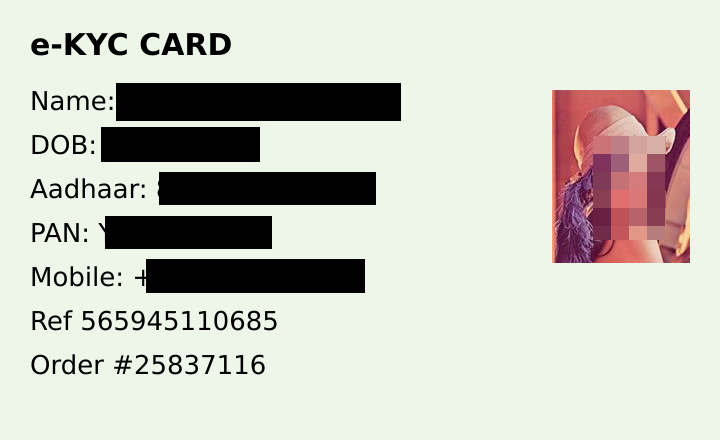
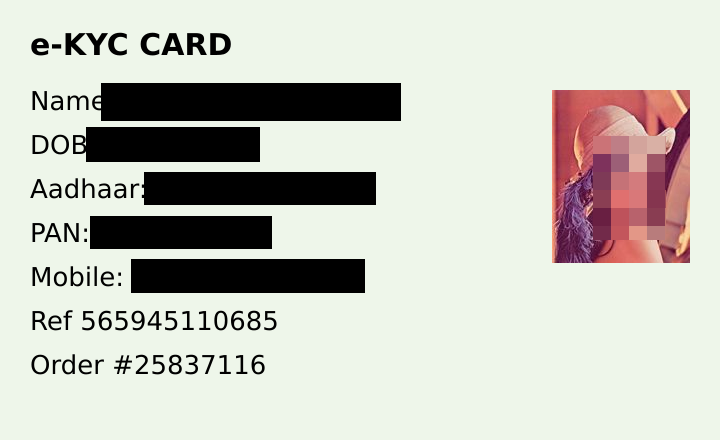
vision: OCR label:value rule masks values by their label (fresh clean seed 0/298 readable, degraded 5/279 all gate-blocked)

diff --git a/packages/vision/src/redact.ts b/packages/vision/src/redact.ts
@@ -1,4 +1,4 @@
-import { detectPatterns, type PiiType, type TextMatch } from '@ouroboros/core';
+import { detectPatterns, domRuleType, type PiiType, type TextMatch } from '@ouroboros/core';
 
 export type AsyncTextDetector = (text: string) => TextMatch[] | Promise<TextMatch[]>;
 import type { Face } from './faces';
@@ -12,6 +12,20 @@ export interface RedactImageOptions {
   /** Fail-closed: OCR lines under this confidence are masked whole. */
   minLineConfidence?: number;
   padding?: number;
+}
+
+const KV = /^\s*([A-Za-z][A-Za-z .\/'()-]{1,30}?)\s*[:：]\s*(\S.*)$/;
+const NAME_LABEL = /\b(name|father|mother|husband|spouse|guardian|s\/o|d\/o|w\/o|address)\b/i;
+
+/** OCR "Label: value" lines (cards, statements): the label decides, like DOM rules do for inputs. */
+export function labelValueMatch(text: string): TextMatch | null {
+  const m = KV.exec(text);
+  if (!m) return null;
+  const label = m[1]!, value = m[2]!.trimEnd();
+  const t: PiiType | null = domRuleType({ tag: 'text', label }) ?? (NAME_LABEL.test(label) ? (/address/i.test(label) ? 'ADDRESS' : 'NAME') : null);
+  if (!t) return null;
+  const start = text.length - m[2]!.length;
+  return { type: t, start, end: start + value.length, value, source: 'dom_rule', confidence: 1 } as TextMatch;
 }
 
 /** Proportional sub-box for a character span of an OCR line (monospace approximation, padded later). */
@@ -38,7 +52,8 @@ export async function redactImage(img: Img, lines: OcrLine[], faces: Face[], opt
       continue;
     }
     const extra = await Promise.all((opts.extraDetectors ?? []).map((d) => d(line.text)));
-    const matches: TextMatch[] = [detectPatterns(line.text), ...extra].flat();
+    const kv = labelValueMatch(line.text);
+    const matches: TextMatch[] = [detectPatterns(line.text), ...extra, ...(kv ? [kv] : [])].flat();
     for (const m of matches) dets.push({ type: m.type, box: spanBox(line, m), source: 'ocr', text: m.value });
   }
   blackFill(img, dets.map((d) => d.box), opts.padding ?? 4);

diff --git a/packages/vision/test/labelValue.test.ts b/packages/vision/test/labelValue.test.ts
@@ -1,0 +1,17 @@
+import { describe, expect, it } from 'vitest';
+import { labelValueMatch } from '../src/redact';
+
+describe('OCR label: value rule', () => {
+  it('masks the value after a PII label', () => {
+    expect(labelValueMatch('Name: Diptendu Sharma')).toMatchObject({ type: 'NAME', value: 'Diptendu Sharma', start: 6 });
+    expect(labelValueMatch('DOB: 12/03/1991')?.type).toBe('DOB');
+    expect(labelValueMatch("Father's Name : R K Rao")?.type).toBe('NAME');
+    expect(labelValueMatch('Aadhaar: 2345 6789 0124')?.type).toBe('AADHAAR');
+  });
+  it('leaves non-PII lines alone', () => {
+    expect(labelValueMatch('Ref 407220213972')).toBeNull();
+    expect(labelValueMatch('Order #34855136')).toBeNull();
+    expect(labelValueMatch('Status: Approved')).toBeNull();
+    expect(labelValueMatch('GOVERNMENT OF INDIA')).toBeNull();
+  });
+});

diff --git a/docs/PHASE9.md b/docs/PHASE9.md
@@ -108,3 +108,17 @@ What this shows:
 - The leak gate caught 1 of 12 image steps: on a degraded card, re-OCR could still read an Aadhaar number after masking, so the gate blocked the step before sending. That is the backstop doing its job. It also means pixel masking alone missed 1 of 12 on degraded cards.
 - A visual check of the masked sample shows the mask box starts about one character late: the first character of Aadhaar, PAN and mobile is still visible. Open fix: widen the left pad in `spanBox`.
 - Request bodies are about 2x bigger than they need to be, because the element list is sent twice (`elements` and `screen_map`). Open fix.
+
+### Vision follow-ups found through E4 (CPU only, no GPU)
+
+- Span masks now reach one average character past each side of the span. Before, proportional fonts left the first character showing. On seeds 9001/9002: masked area +0.6 pp, no decoy loss, whole-value reads unchanged.
+- New OCR "Label: value" rule: a line like `Name: X`, `Father's Name: X`, `DOB: X` or `Aadhaar: X` masks X because of the label, the way DOM rules treat inputs. It closes the one clean-card NAME the NER missed on seed 9001, which previously got past the gate too (names have no regex).
+
+| Seed | Cards | Values readable after masking | Passed the gate while a value was readable | Decoys readable before -> after |
+|---|---|--:|--:|--:|
+| 9001 (dev, clean) | 60 | 1 -> **0** | 1 -> **0** | 117 -> 117 |
+| 9002 (dev, degraded) | 60 | 7 -> 5 | 0 -> 0 | 118 -> 117 |
+| 9101 (fresh, clean) | 60 | **0**/298 | **0** | 120 -> 120 |
+| 9102 (fresh, degraded) | 60 | 5/279 | **0** | 119 -> 115 |
+
+On degraded cards, the values still readable after masking are digits the first OCR pass misread, so no pattern matched them. Every such card was blocked by the re-OCR leak gate; none was sent.

diff --git a/eval/results/vision-cards-hard-9102.md b/eval/results/vision-cards-hard-9102.md
@@ -1,0 +1,28 @@
+# Eval: vision stage on synthetic ID-card images (degraded: rotation, blur, downscale, JPEG)
+
+60 Faker en_IN cards (seed 9102, `npm run images --workspace eval -- 60 9102 --hard`), 720x440 PNG, 5 fonts, 5 backgrounds, 5 PII fields + 2 look-alike decoys + one face photo each. Pipeline: PaddleOCR PP-OCRv3 det + PP-OCRv5 mobile English rec (ONNX, CPU) -> rules + NER per OCR line -> black-fill matched spans (low-confidence lines masked whole) ; YuNet 2023mar -> pixelate faces. "Readable" = the value appears in PaddleOCR output of the image (normalized). The attacker model is the same OCR, so this is a lower bound on what a stronger reader could recover.
+
+## PII still readable
+
+| Type | Values | Readable before | Readable after | Suppressed % |
+|------|------:|------:|------:|------:|
+| NAME | 60 | 49 | 0 | 100.0 |
+| DOB | 60 | 60 | 1 | 98.3 |
+| AADHAAR | 60 | 57 | 3 | 94.7 |
+| PAN | 60 | 54 | 0 | 100.0 |
+| PHONE | 60 | 59 | 1 | 98.3 |
+
+- **All values:** 279 of 300 readable before, **5 readable after masking**
+- Faces detected: 60/60 before, 0/60 after pixelation
+- Decoys readable: 119 before, 115 after (lower after = over-redaction)
+- Mean masked area: 13.8% of the image
+- Leak gate on re-OCR text: passed 55/60; passed while a value was still readable: **0**
+
+## Cost (Node, onnxruntime-node CPU, sandbox)
+
+- OCR + faces + NER + masking per image: mean 382 ms, p50 374 ms, p95 500 ms
+
+## Caveats
+
+- Self-generated images with a single reused face photo (OpenCV sample). Degradation is simulated (rotation up to 4 deg, blur, 0.55-0.8x downscale, JPEG q35-60); no glare, perspective or real camera noise. Treat these as an upper bound.
+- Face "after" re-detection only shows YuNet no longer fires; it is not proof a person is unrecognisable.

diff --git a/eval/results/vision-cards-9101.md b/eval/results/vision-cards-9101.md
@@ -1,0 +1,28 @@
+# Eval: vision stage on synthetic ID-card images
+
+60 Faker en_IN cards (seed 9101, `npm run images --workspace eval -- 60 9101`), 720x440 PNG, 5 fonts, 5 backgrounds, 5 PII fields + 2 look-alike decoys + one face photo each. Pipeline: PaddleOCR PP-OCRv3 det + PP-OCRv5 mobile English rec (ONNX, CPU) -> rules + NER per OCR line -> black-fill matched spans (low-confidence lines masked whole) ; YuNet 2023mar -> pixelate faces. "Readable" = the value appears in PaddleOCR output of the image (normalized). The attacker model is the same OCR, so this is a lower bound on what a stronger reader could recover.
+
+## PII still readable
+
+| Type | Values | Readable before | Readable after | Suppressed % |
+|------|------:|------:|------:|------:|
+| NAME | 60 | 60 | 0 | 100.0 |
+| DOB | 60 | 60 | 0 | 100.0 |
+| AADHAAR | 60 | 60 | 0 | 100.0 |
+| PAN | 60 | 58 | 0 | 100.0 |
+| PHONE | 60 | 60 | 0 | 100.0 |
+
+- **All values:** 298 of 300 readable before, **0 readable after masking**
+- Faces detected: 60/60 before, 0/60 after pixelation
+- Decoys readable: 120 before, 120 after (lower after = over-redaction)
+- Mean masked area: 10.7% of the image
+- Leak gate on re-OCR text: passed 60/60; passed while a value was still readable: **0**
+
+## Cost (Node, onnxruntime-node CPU, sandbox)
+
+- OCR + faces + NER + masking per image: mean 515 ms, p50 511 ms, p95 596 ms
+
+## Caveats
+
+- Self-generated images with a single reused face photo (OpenCV sample). Clean synthetic text: no blur, skew, glare or camera noise. Treat these as an upper bound.
+- Face "after" re-detection only shows YuNet no longer fires; it is not proof a person is unrecognisable.

diff --git a/eval/results/vision-cards-9001.md b/eval/results/vision-cards-9001.md
@@ -6,21 +6,21 @@
 
 | Type | Values | Readable before | Readable after | Suppressed % |
 |------|------:|------:|------:|------:|
-| NAME | 60 | 60 | 1 | 98.3 |
+| NAME | 60 | 60 | 0 | 100.0 |
 | DOB | 60 | 60 | 0 | 100.0 |
 | AADHAAR | 60 | 60 | 0 | 100.0 |
 | PAN | 60 | 56 | 0 | 100.0 |
 | PHONE | 60 | 60 | 0 | 100.0 |
 
-- **All values:** 296 of 300 readable before, **1 readable after masking**
+- **All values:** 296 of 300 readable before, **0 readable after masking**
 - Faces detected: 60/60 before, 0/60 after pixelation
 - Decoys readable: 117 before, 117 after (lower after = over-redaction)
-- Mean masked area: 11.0% of the image
-- Leak gate on re-OCR text: passed 60/60; passed while a value was still readable: **1**
+- Mean masked area: 11.1% of the image
+- Leak gate on re-OCR text: passed 60/60; passed while a value was still readable: **0**
 
 ## Cost (Node, onnxruntime-node CPU, sandbox)
 
-- OCR + faces + NER + masking per image: mean 576 ms, p50 566 ms, p95 681 ms
+- OCR + faces + NER + masking per image: mean 526 ms, p50 520 ms, p95 607 ms
 
 ## Caveats
 

diff --git a/eval/results/vision-cards-hard-9002.md b/eval/results/vision-cards-hard-9002.md
@@ -8,19 +8,19 @@
 |------|------:|------:|------:|------:|
 | NAME | 60 | 52 | 0 | 100.0 |
 | DOB | 60 | 60 | 1 | 98.3 |
-| AADHAAR | 60 | 54 | 4 | 92.6 |
+| AADHAAR | 60 | 54 | 2 | 96.3 |
 | PAN | 60 | 55 | 0 | 100.0 |
 | PHONE | 60 | 58 | 2 | 96.6 |
 
-- **All values:** 279 of 300 readable before, **7 readable after masking**
+- **All values:** 279 of 300 readable before, **5 readable after masking**
 - Faces detected: 60/60 before, 0/60 after pixelation
 - Decoys readable: 118 before, 117 after (lower after = over-redaction)
-- Mean masked area: 13.0% of the image
-- Leak gate on re-OCR text: passed 54/60; passed while a value was still readable: **0**
+- Mean masked area: 13.2% of the image
+- Leak gate on re-OCR text: passed 56/60; passed while a value was still readable: **0**
 
 ## Cost (Node, onnxruntime-node CPU, sandbox)
 
-- OCR + faces + NER + masking per image: mean 384 ms, p50 353 ms, p95 545 ms
+- OCR + faces + NER + masking per image: mean 371 ms, p50 353 ms, p95 498 ms
 
 ## Caveats
 
